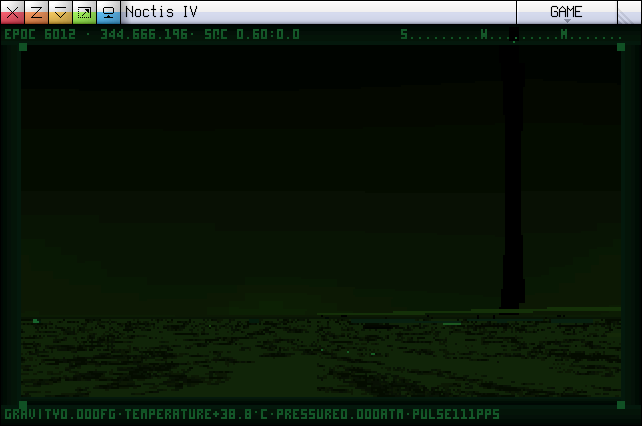
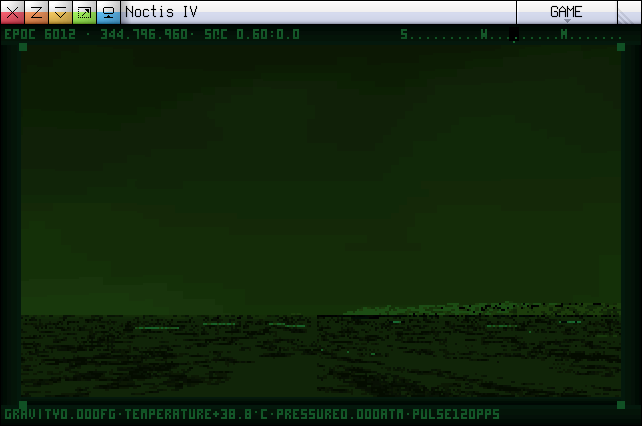
Fix NIVGEN surface seed and refresh thin world capture

diff --git a/tools/nivtest.py b/tools/nivtest.py
@@ -142,6 +142,10 @@ def run_lino(args: argparse.Namespace) -> tuple[list[int], dict[str, bytes]]:
 
 def results(header: list[int], buffers: dict[str, bytes]) -> dict[str, object]:
     owner = signed(header[9])
+    def f64(index: int) -> float:
+        return struct.unpack("<d", struct.pack("<II", header[index],
+                                               header[index + 1]))[0]
+    seedval = f64(30)
     palette_base = (128 if owner >= 0 else 192) * 3
     hashes = {
         "surf": hash_record(buffers["surface"][:46080]),
@@ -155,8 +159,14 @@ def results(header: list[int], buffers: dict[str, bytes]) -> dict[str, object]:
     return {
         "body": header[6], "body_count": header[7], "type": header[8],
         "owner": owner, "global_surface_seed": signed(header[10]),
+        "seedval": seedval,
         "sctype": header[11], "albedo": signed(header[12]),
         "night": signed(header[13]), "secs": signed(header[14]),
+        "geometry": {
+            "ray": f64(15), "orb_ray": f64(17), "orb_seed": f64(19),
+            "tilt": f64(21), "orb_tilt": f64(23), "orb_ecc": f64(25),
+            "orb_orient": f64(27), "plwp": header[29],
+        },
         "gap": buffers["gap"].hex().upper(), "hashes": hashes,
     }
 

diff --git a/tools/nivgen_score.py b/tools/nivgen_score.py
@@ -93,6 +93,7 @@ def grade_row(args: argparse.Namespace, row: dict[str, object], build: bool):
     return {
         "key": row["key"], "type": row["type"], "coords": coords[:3],
         "body": coords[3], "reported_type": default["type"],
+        "sheet_seedval": row.get("seedval"), "lino_seedval": default["seedval"],
         "global_surface_seed": default["global_surface_seed"],
         "comparisons": comparisons,
     }
